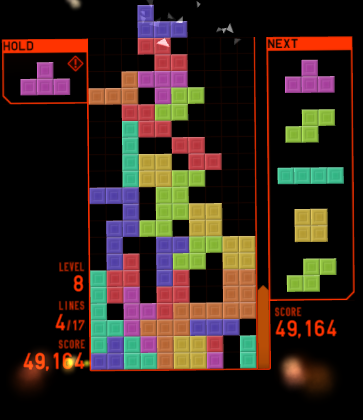
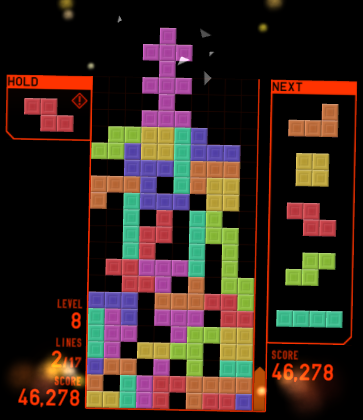
Bot FINAL

diff --git a/Tetris/bot.py b/Tetris/bot.py
@@ -13,6 +13,7 @@ CONFIG_FILE = "tetrio_config.json"
 BASE_DIR = os.path.dirname(os.path.abspath(__file__))
 CONFIG_PATH = os.path.join(BASE_DIR, CONFIG_FILE)
 COORDENADAS_PUNTAJE = (308, 447, 363, 420)
+SCREENSHOT_PATH = os.path.join(BASE_DIR, "azucar_morena_bot.png")
 ########################################
 # TOLERANCIA DE COLOR
 ########################################
@@ -932,9 +933,9 @@ def get_tiempos_hold(nivel, usar_rapida):
         'hold_release_delay': max(0.12 * factor, 0.05)
     }
 
-def guardar_screenshot_pantalla(nombre= "azucar_morena_bot.png"):
+def guardar_screenshot_pantalla():
     screen = capture_screen(COORDENADAS_PUNTAJE)
-    cv2.imwrite(BASE_DIR + nombre, screen)
+    cv2.imwrite(SCREENSHOT_PATH, screen)
 
 def puntuar_tablero(matriz, lineas_eliminadas=0):
     """
@@ -971,8 +972,10 @@ def puntuar_tablero(matriz, lineas_eliminadas=0):
     else:
         bonus = 0
     
-    if nivel >= 7:
+    if nivel == 7:
         PESO_ALTURA *= 1.5
+    elif nivel >= 8:
+        PESO_ALTURA *= nivel
 
     puntuacion = (PESO_LINEAS * lineas_eliminadas +
                   PESO_HUECOS * huecos +
@@ -1015,37 +1018,36 @@ def mejor_placement(matriz, pieza):
 
 def mejor_placement_rapido(matriz, pieza, nivel=7):
     """
-    Estrategia intermedia para niveles altos (>=7). Evalúa las mejores 'num_rot' rotaciones
-    (según heurística de altura) con todas las columnas. Si no encuentra colocación,
-    evalúa las rotaciones restantes.
+    Estrategia para niveles >=7.
+    - Nivel 7: evalúa las 3 mejores rotaciones y todas sus columnas.
+    - Nivel >=8: evalúa la mejor rotación y solo las N mejores columnas,
+                 seleccionadas por altura mínima (sin preferencia central).
     """
     if pieza not in FORMAS_PIEZAS:
         return float('-inf'), None, None
 
     rotaciones = FORMAS_PIEZAS[pieza]
     alturas_actuales = alturas_columna(matriz)
-    
-    # Determinar cuántas rotaciones evaluar según nivel
+
+    # Determinar número de rotaciones y columnas según nivel
     if nivel >= 8:
-        num_rot = 1
-    else:
+        num_rot = 2
+        num_cols = 5
+    else:  # nivel 7
         num_rot = 3
-    
-    # Calcular heurística rápida para cada rotación: altura máxima que alcanzaría la pieza
-    # si se coloca en la columna que minimice esa altura (simulación rápida)
+        num_cols = BOARD_COLS  # todas
+
+    # Calcular heurística de altura para cada rotación (menor altura mejor)
     puntajes_rotacion = []
     for rot_idx, forma in enumerate(rotaciones):
         ancho_p = len(forma[0])
         altura_p = len(forma)
-        # Encontrar la columna que minimiza la altura final de la pieza (altura de caída + altura de la pieza)
         mejor_altura = BOARD_ROWS + 1
         for col in range(BOARD_COLS - ancho_p + 1):
-            # Calcular fila de caída aproximada (no es exacta pero da una idea)
             fila_caida = BOARD_ROWS - altura_p
             for i in range(altura_p):
                 for j in range(ancho_p):
                     if forma[i][j] == 1:
-                        # Buscar la primera fila desde abajo donde hay bloque
                         for f in range(fila_caida, -1, -1):
                             if matriz[f][col + j] == 1:
                                 fila_caida = min(fila_caida, f - i - 1)
@@ -1054,20 +1056,36 @@ def mejor_placement_rapido(matriz, pieza, nivel=7):
             if altura_final < mejor_altura:
                 mejor_altura = altura_final
         puntajes_rotacion.append((rot_idx, mejor_altura))
-    
-    # Ordenar rotaciones por menor altura (mejor)
+
     puntajes_rotacion.sort(key=lambda x: x[1])
     rotaciones_a_evaluar = [r[0] for r in puntajes_rotacion[:num_rot]]
-    
+
     mejor_punt = float('-inf')
     mejor_col = None
     mejor_rot = None
-    
-    # Evaluar rotaciones seleccionadas con todas las columnas
+
     for rot_idx in rotaciones_a_evaluar:
         forma = rotaciones[rot_idx]
         ancho_p = len(forma[0])
-        for col in range(BOARD_COLS - ancho_p + 1):
+        columnas_posibles = list(range(BOARD_COLS - ancho_p + 1))
+
+        # Para nivel 7, evaluar todas las columnas
+        if nivel == 7:
+            columnas_a_evaluar = columnas_posibles
+        else:
+            # Heurística para seleccionar las mejores columnas: solo la altura máxima
+            # (menor altura, mejor; se ordena ascendente)
+            puntajes_col = []
+            for col in columnas_posibles:
+                alturas_afectadas = [alturas_actuales[col + j] for j in range(ancho_p)]
+                max_altura = max(alturas_afectadas) if alturas_afectadas else 0
+                # Sin distancia al centro, solo priorizar la altura más baja
+                puntajes_col.append((col, max_altura))
+            # Ordenar por altura (menor mejor)
+            puntajes_col.sort(key=lambda x: x[1])
+            columnas_a_evaluar = [c[0] for c in puntajes_col[:num_cols]]
+
+        for col in columnas_a_evaluar:
             nuevo_tablero, lineas = simular_placement(matriz, pieza, rot_idx, col)
             if nuevo_tablero is None:
                 continue
@@ -1076,8 +1094,8 @@ def mejor_placement_rapido(matriz, pieza, nivel=7):
                 mejor_punt = punt
                 mejor_col = col
                 mejor_rot = rot_idx
-    
-    # Si no se encontró colocación en las rotaciones seleccionadas, evaluar el resto
+
+    # Fallback: si no se encontró nada, evaluar rotaciones restantes (raro)
     if mejor_col is None:
         rotaciones_restantes = [i for i in range(len(rotaciones)) if i not in rotaciones_a_evaluar]
         for rot_idx in rotaciones_restantes:
@@ -1092,7 +1110,7 @@ def mejor_placement_rapido(matriz, pieza, nivel=7):
                     mejor_punt = punt
                     mejor_col = col
                     mejor_rot = rot_idx
-  
+
     return mejor_punt, mejor_col, mejor_rot
 
 def colocar_pieza_mejorada(pieza, columna_spawn_inicial, columna_objetivo, rotacion_objetivo, keyboard, spawn_region, cell_w, nivel, usar_estrategia_rapida=False):
@@ -1119,11 +1137,11 @@ def colocar_pieza_mejorada(pieza, columna_spawn_inicial, columna_objetivo, rotac
         factor = 0.9
         factor_reintento = 0.9
     elif nivel == 7:
-        factor = 0.77
-        factor_reintento = 0.77
+        factor = 0.8
+        factor_reintento = 0.8
     else:
-        factor = 0.4
-        factor_reintento = 0.4
+        factor = 0.5
+        factor_reintento = 0.5
 
     #Calcular tiempos reales con mínimo
     t_puls = max(tiempos_base['pulsacion'] * factor, 0.002)
